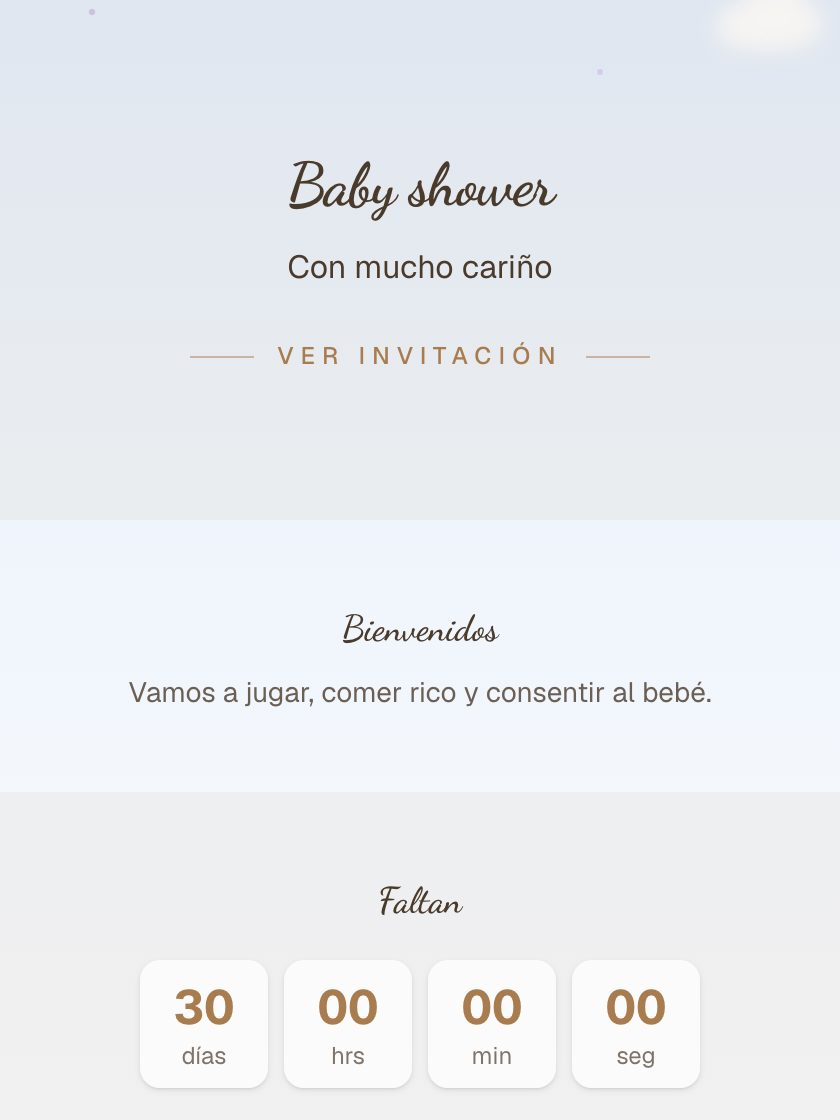
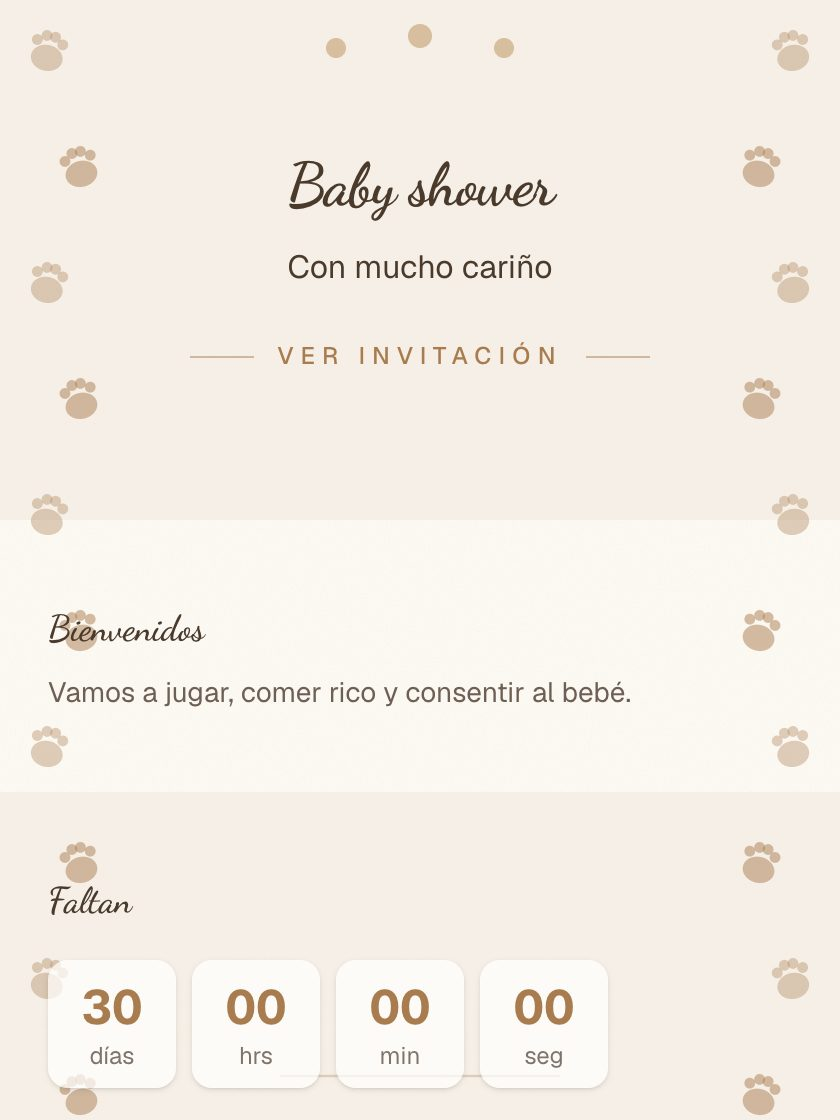
chore(catalogo): miniaturas de las 12 de BABY SHOWER
Verificado contra la BD tras 0049 y 0050: 12 fondos distintos, 12 combinaciones
de composicion unicas, y 0 plantillas en TODO el catalogo con una variante que
pide foto sin tenerla.

Miradas: los CUATRO pares de paleta identica se distinguen sin ambiguedad —
topos vs punteado, patitas vs movil de cuna, banderines vs estratos, eucalipto
vs olivo.

REVISION_MINIATURAS -> 202609092204.

diff --git a/src/lib/invitations/template-preview.ts b/src/lib/invitations/template-preview.ts
@@ -67,4 +67,4 @@ export const ESCALA_CAPTURA = 2;
  * optimizador y la del navegador, y evita tener que renombrar 50 archivos o
  * volver a escribir 50 URLs en la BD en cada regeneración.
  */
-export const REVISION_MINIATURAS = "202609092150";
+export const REVISION_MINIATURAS = "202609092204";
